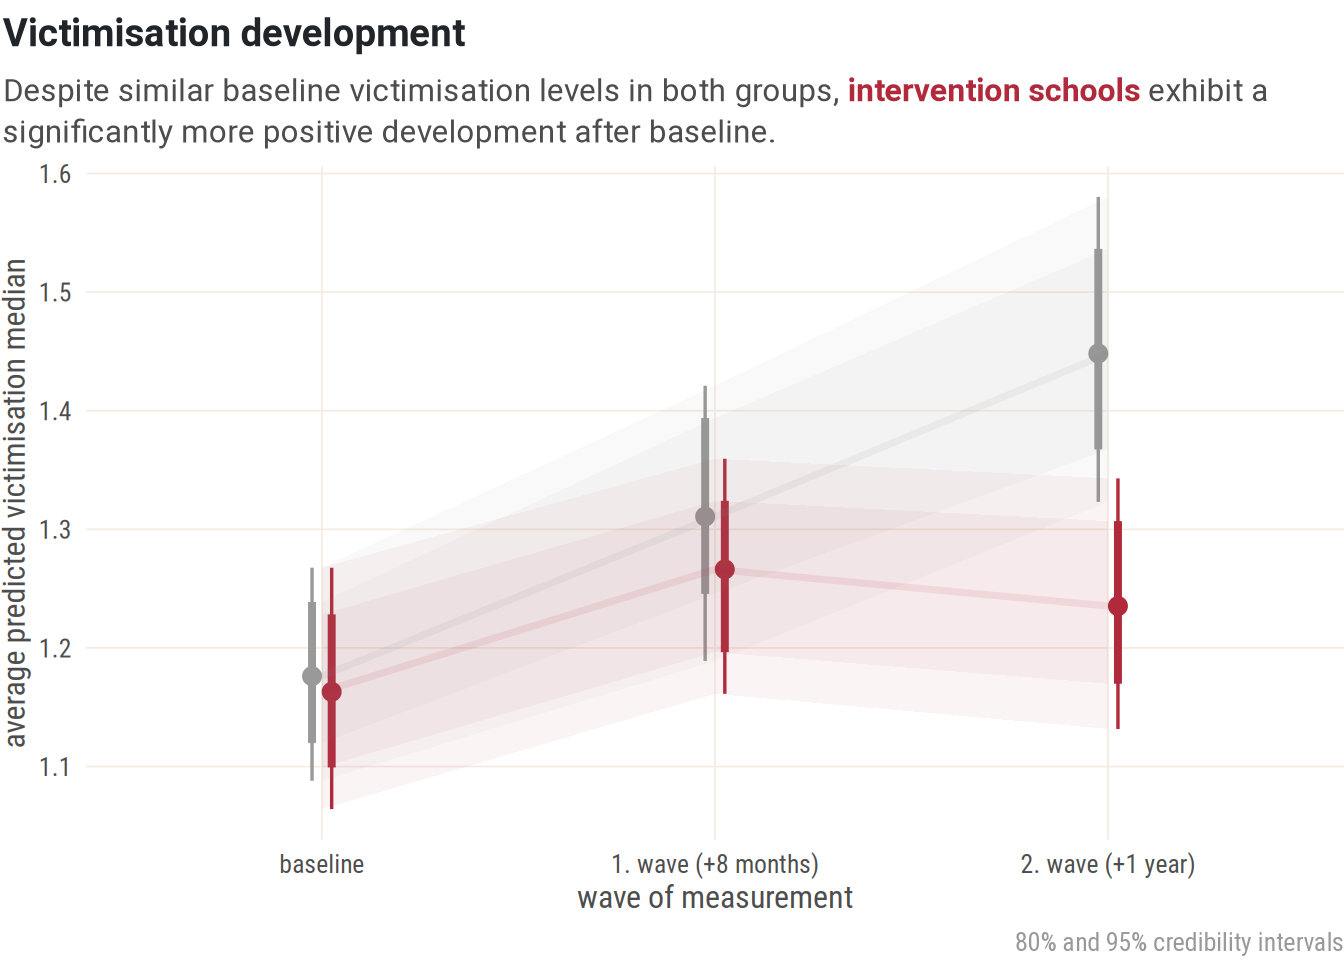
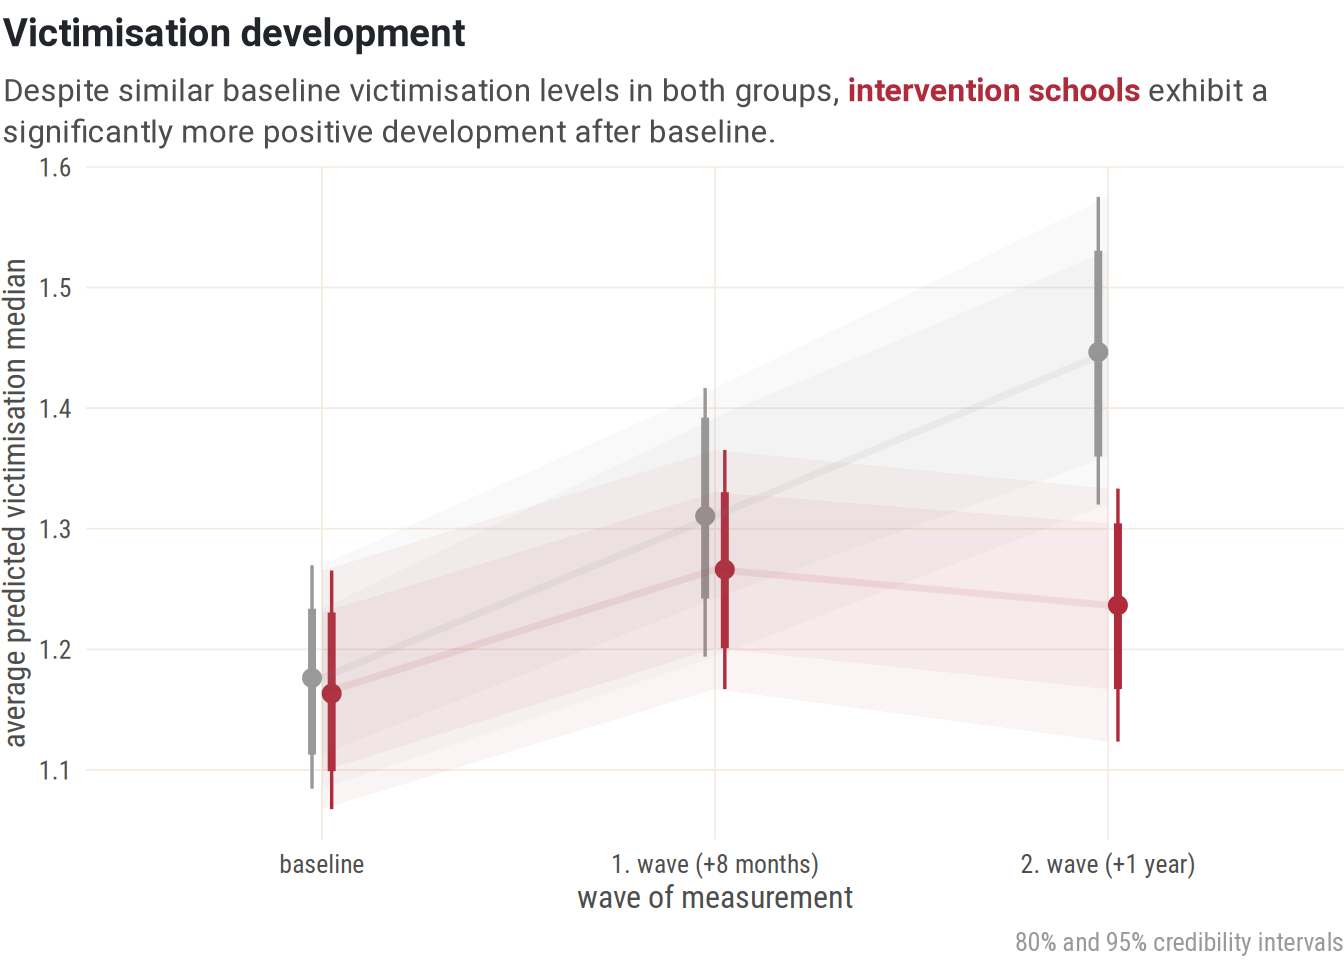
Built site for gh-pages

diff --git a/analysis.html b/analysis.html
@@ -280,13 +280,13 @@ p {
 <tr class="odd">
 <td style="text-align: left;">baseline</td>
 <td style="text-align: right;">-0.01</td>
-<td style="text-align: right;">-0.13</td>
-<td style="text-align: right;">0.10</td>
+<td style="text-align: right;">-0.12</td>
+<td style="text-align: right;">0.11</td>
 </tr>
 <tr class="even">
 <td style="text-align: left;">1. wave (+8 months)</td>
 <td style="text-align: right;">-0.05</td>
-<td style="text-align: right;">-0.17</td>
+<td style="text-align: right;">-0.18</td>
 <td style="text-align: right;">0.08</td>
 </tr>
 <tr class="odd">
@@ -483,7 +483,7 @@ Palladino, Benedetta Emanuela, Annalaura Nocentini, and Ersilia Menesini. 2015. 
     }
       var localhostRegex = new RegExp(/^(?:http|https):\/\/localhost\:?[0-9]*\//);
       var mailtoRegex = new RegExp(/^mailto:/);
-        var filterRegex = new RegExp('/' + window.location.host + '/');
+        var filterRegex = new RegExp("https:\/\/hudy551\.github\.io\/showcase_evaluation\/");
       var isInternal = (href) => {
           return filterRegex.test(href) || localhostRegex.test(href) || mailtoRegex.test(href);
       }
